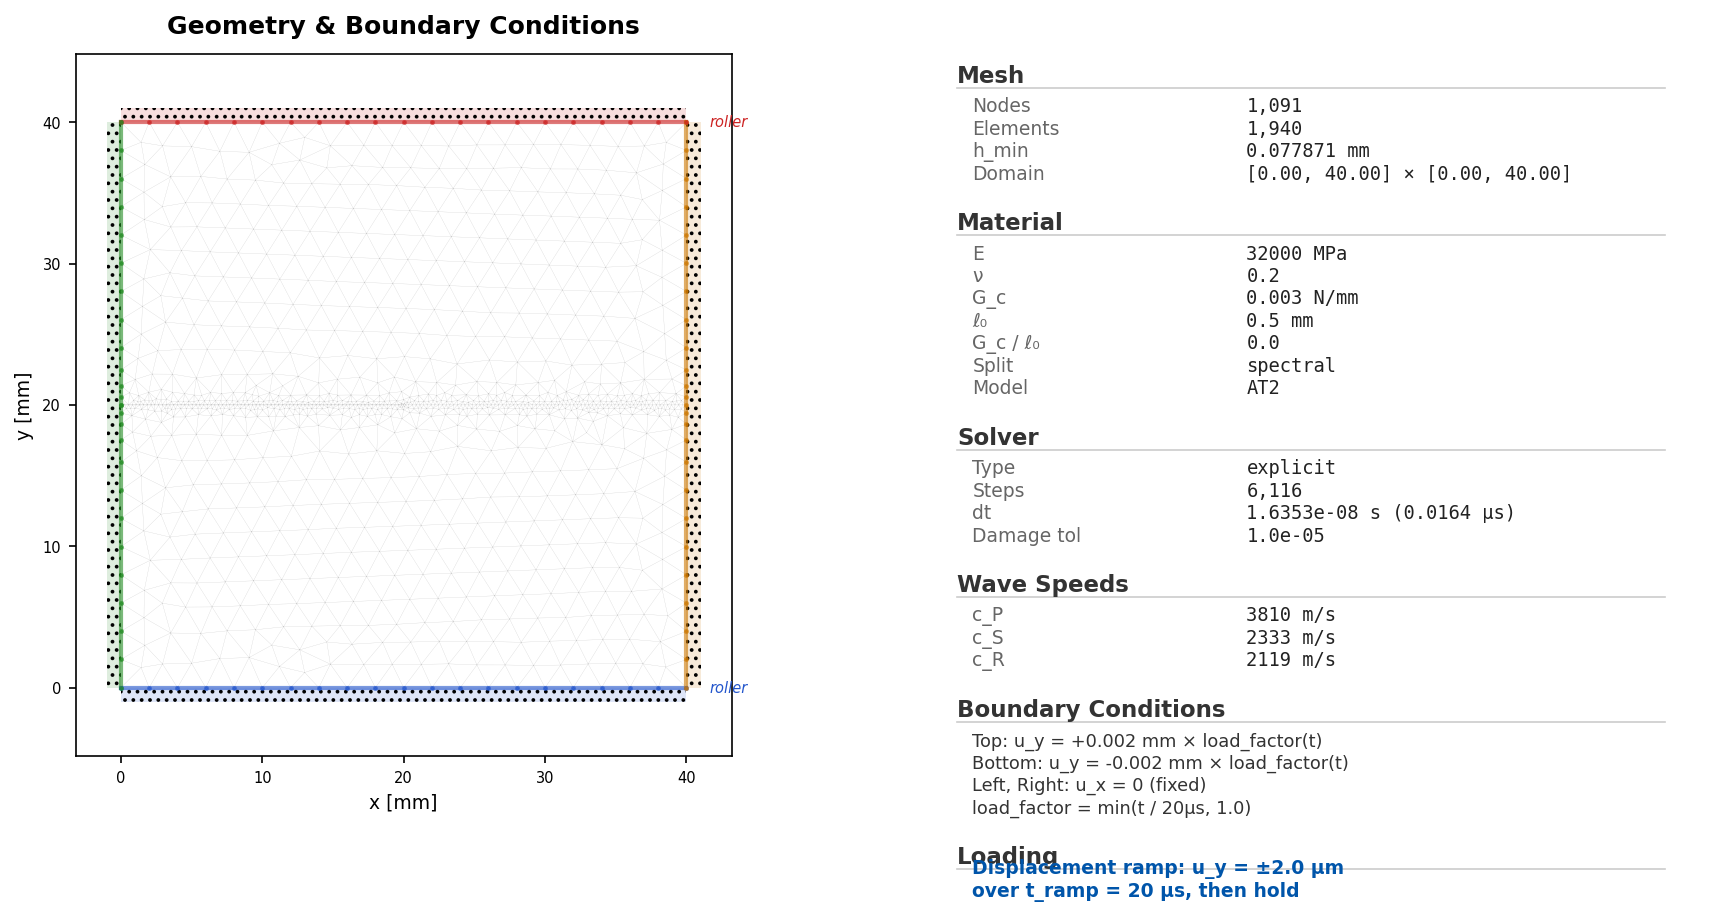
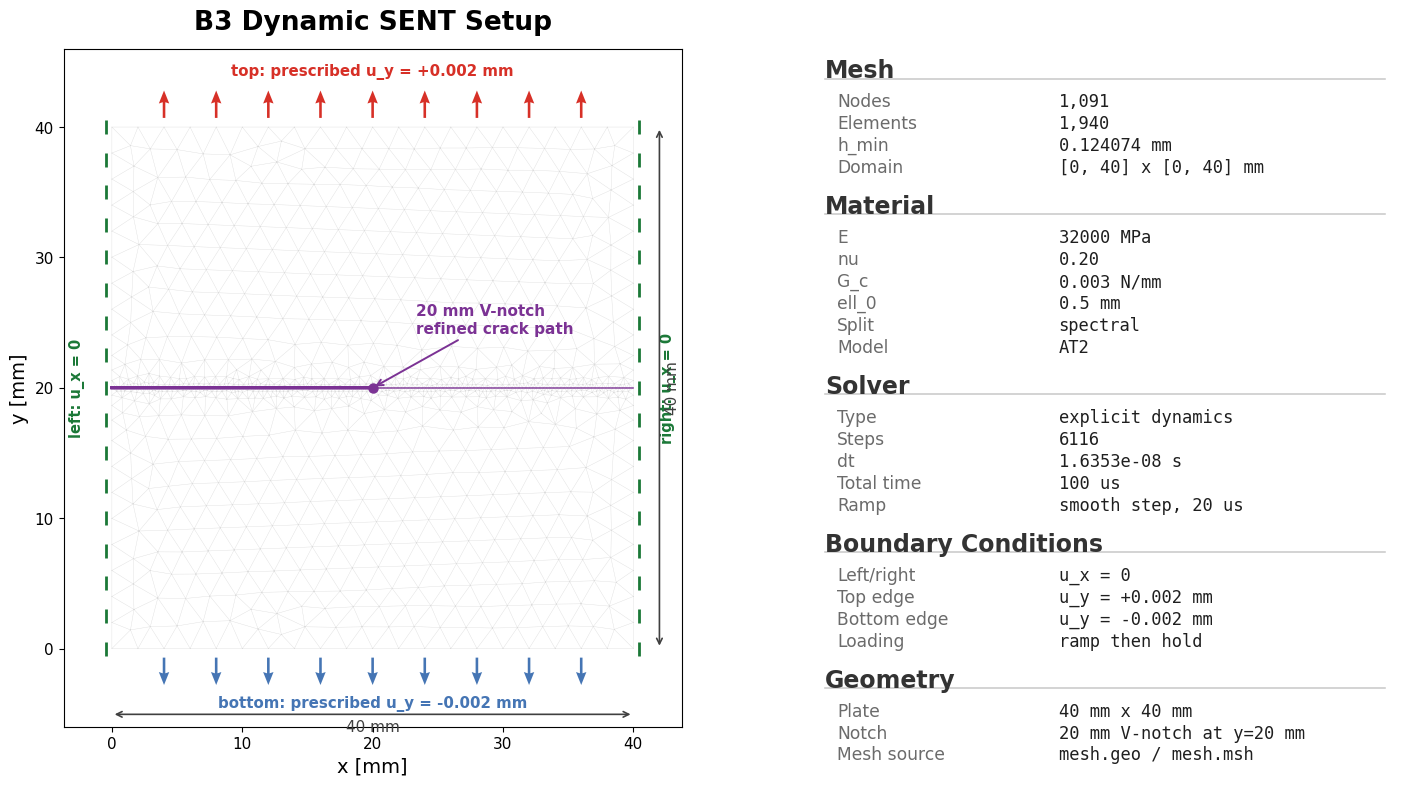
Align B2 and B3 dynamic example READMEs

diff --git a/examples/dynamic/B3_dynamic_sent/run_fluent.py b/examples/dynamic/B3_dynamic_sent/run_fluent.py
@@ -1,4 +1,4 @@
-"""Run the B3 dynamic SENT example without a YAML deck."""
+"""Run the B3 dynamic SENT example without a YAML configuration."""
 
 from __future__ import annotations
 
@@ -23,19 +23,20 @@ def build_problem(num_steps: int | None = None) -> phast.Problem:
     problem.config.geometry = GeometryConfig(
         units="mm",
         primitives={
-            "plate": {"type": "rectangle", "origin": [0, 0], "size": [100.0, 40.0]},
+            "plate": {"type": "rectangle", "origin": [0, 0], "size": [40.0, 40.0]},
             "notch": {
                 "type": "polygon",
-                "vertices": [[0.0, 20.01], [50.0, 20.0], [0.0, 19.99]],
+                "vertices": [[0.0, 20.001], [20.0, 20.0], [0.0, 19.999]],
             },
         },
         domain={"base": "plate", "subtract": ["notch"]},
         named_groups={
             "left": {"region": {"type": "rectangle", "origin": [-0.01, 0.0], "size": [0.02, 40.0]}},
-            "top": {"region": {"type": "rectangle", "origin": [0.0, 39.99], "size": [100.0, 0.02]}},
-            "bottom": {"region": {"type": "rectangle", "origin": [0.0, -0.01], "size": [100.0, 0.02]}},
+            "right": {"region": {"type": "rectangle", "origin": [39.99, 0.0], "size": [0.02, 40.0]}},
+            "top": {"region": {"type": "rectangle", "origin": [0.0, 39.99], "size": [40.0, 0.02]}},
+            "bottom": {"region": {"type": "rectangle", "origin": [0.0, -0.01], "size": [40.0, 0.02]}},
         },
-        mesh={"element_size": {"default": 4.0, "refined": [{"primitive": "notch", "size": 0.5, "margin": 2.5}]}},
+        mesh={"element_size": {"default": 2.0, "refined": [{"primitive": "notch", "size": 0.25, "margin": 1.5}]}},
     )
     problem.config.material = MaterialConfig(
         E=32000.0,
@@ -49,10 +50,17 @@ def build_problem(num_steps: int | None = None) -> phast.Problem:
     )
     problem.config.boundary_conditions = [
         BoundaryConditionEntry(nodes="left", type="fix", component=0),
-        BoundaryConditionEntry(nodes="top", type="traction", component=1, value=1.0, ramp_type="constant"),
-        BoundaryConditionEntry(nodes="bottom", type="traction", component=1, value=-1.0, ramp_type="constant"),
+        BoundaryConditionEntry(nodes="right", type="fix", component=0),
+        BoundaryConditionEntry(nodes="top", type="prescribe", component=1, value=0.002),
+        BoundaryConditionEntry(nodes="bottom", type="prescribe", component=1, value=-0.002),
     ]
-    problem.config.loading = LoadingConfig(protocol="simple", t_total=5.0e-05, ramp_type="constant", num_steps=0)
+    problem.config.loading = LoadingConfig(
+        protocol="simple",
+        t_total=1.0e-04,
+        ramp_type="smooth_step",
+        t_ramp=2.0e-05,
+        num_steps=0,
+    )
     problem.config.solver = SolverSettings(solver_type="explicit", dt_safety=0.8)
     problem.config.output = OutputConfig(
         trajectory=True,

diff --git a/examples/dynamic/B3_dynamic_sent/README.md b/examples/dynamic/B3_dynamic_sent/README.md
@@ -1,20 +1,20 @@
 # B3 Dynamic SENT
 
-Dynamic single-edge-notched tension lightweight example based on Borden et al. (2012). The folder is useful as a lightweight explicit-dynamics demonstration and keeps the current curated SENT CSV and PNG outputs beside the YAML configuration.
+Dynamic single-edge-notched tension lightweight example based on Borden et al. (2012). The folder provides a compact explicit-dynamics demonstration and keeps the curated SENT CSV, PNG, and animation outputs beside the YAML configuration.
 
-All public-facing artifacts for this example stay directly in this folder. Full run folders, heavy trajectory stores, external COMSOL model files, and diagnostic diagnostics are intentionally excluded.
+All public-facing artifacts for this example stay directly in this folder. Full run folders, heavy trajectory stores, external COMSOL model files, and diagnostic outputs are intentionally excluded.
 
 ## 1. Problem Description
 
-- 100 mm x 40 mm SENT plate with a 50 mm wedge notch generated through the geometry DSL.
+- 40 mm x 40 mm SENT plate with a 20 mm wedge notch generated through the geometry DSL and mirrored by `mesh.geo`.
 - Material model: soda-lime glass, AT2 phase field, spectral split, explicit dynamics.
-- Loading: constant opposite top/bottom tractions with the left edge constrained in x.
+- Loading: smooth-step prescribed vertical displacement on the top and bottom edges, ramped to `u_y = +/-0.002 mm` over 20 us and then held; left and right edges are constrained in `x`.
 - Claim boundary: qualitative lightweight dynamic fracture evidence, not convergence-quality benchmark validation.
 
 The YAML configuration is the canonical public input for this example. Expected runtime depends strongly on mesh size, device, and output cadence; the checked-in outputs are curated evidence and should not be regenerated during lightweight contract checks.
 
 
-## Run The Canonical YAML configuration
+## Run The Canonical YAML Configuration
 
 From the repository root:
 
@@ -40,6 +40,16 @@ python -m phast run examples/dynamic/B3_dynamic_sent/config.yaml \
 ```
 
 Do not treat the short check as benchmark evidence; it is only a quick check for the declarative configuration and runner plumbing.
+
+To regenerate a fresh Gmsh mesh from the public geometry recipe:
+
+```bash
+gmsh examples/dynamic/B3_dynamic_sent/mesh.geo \
+  -2 -format msh2 \
+  -o examples/dynamic/B3_dynamic_sent/mesh.msh
+```
+
+The checked-in `mesh.msh` is the mesh used by the curated public evidence. Regenerating from `mesh.geo` is useful for reruns, but Gmsh version and import/export choices can produce small node/element-count differences.
 
 ## How The YAML Is Used
 
@@ -100,11 +110,12 @@ The Python runner builds the same mesh, material, boundary-condition, solver, an
 
 | Initial conditions | Damage evolution |
 |---|---|
+| <img src="initial_conditions.png" alt="B3 dynamic SENT initial conditions" width="360"> | <img src="damage_evolution.gif" alt="B3 dynamic SENT damage evolution" width="360"> |
 
 | Quantity | Reference evidence | Status |
 | --- | --- | --- |
 | Package status | Dynamic lightweight example | PUBLIC EXAMPLE |
-| Curated evidence | Setup, multipanel damage, stress/displacement, energy, velocity, history, and crack-tip files | PRESENT |
-| Known limitation | Current config has h/l0 warning; add finer reference evidence before claiming benchmark convergence | DOCUMENTED |
+| Curated evidence | Setup image, final damage image, damage animation, history, energy, and crack-tip files | PRESENT |
+| Known limitation | Lightweight 1,091-node public evidence; use finer reruns before making convergence-quality claims | DOCUMENTED |
 
 The public result bundle is lightweight by design. It is suitable for documentation, review, and drift checks, while large full trajectories and source datasets remain outside the public example folder.

diff --git a/examples/dynamic/B2_kalthoff_winkler/README.md b/examples/dynamic/B2_kalthoff_winkler/README.md
@@ -1,8 +1,8 @@
 # B2 Kalthoff-Winkler
 
-Dynamic Kalthoff-Winkler impact example based on Borden et al. (2012). The public folder contains the runnable YAML configuration and lightweight mesh-3 evidence from the canonical half-plate reference environment run `kalthoff_halfplate_19148/mesh3_h0.25`.
+Dynamic Kalthoff-Winkler impact example based on Borden et al. (2012). The public folder contains the runnable YAML configuration and lightweight mesh-3 evidence from the canonical half-plate reference run `kalthoff_halfplate_19148/mesh3_h0.25`.
 
-All public-facing artifacts for this example stay directly in this folder. Full run folders, heavy trajectory stores, external COMSOL model files, and diagnostic diagnostics are intentionally excluded.
+All public-facing artifacts for this example stay directly in this folder. Full run folders, heavy trajectory stores, external COMSOL model files, and diagnostic outputs are intentionally excluded.
 
 ## 1. Problem Description
 
@@ -14,7 +14,7 @@ All public-facing artifacts for this example stay directly in this folder. Full 
 The YAML configuration is the canonical public input for this example. The reference evidence was produced in the reference environment with a single A100 80 GB GPU; the mesh-3 run metadata records 35,487 nodes, 70,447 elements, 11,775 explicit steps, and 79.22 s wall time. Do not regenerate this full benchmark during lightweight contract checks.
 
 
-## Run The Canonical YAML configuration
+## Run The Canonical YAML Configuration
 
 From the repository root:
 
@@ -112,8 +112,8 @@ The Python runner builds the same mesh, material, boundary-condition, solver, an
 | Quantity | Reference evidence | Status |
 | --- | --- | --- |
 | Recorded run | reference A100 mesh-3 evidence; 35,487 nodes, 70,447 elements, 11,775 explicit steps | PRESENT |
-| Public field animation | `damage_evolution.gif` and `damage_evolution.mp4` generated from mesh-3 `external trajectory store` in the reference environment | PRESENT |
-| Excluded large files | `external trajectory store`, full run logs, and temporary result directories stay out of the public bundle | ENFORCED |
+| Public field animation | `damage_evolution.gif` and `damage_evolution.mp4` generated from the mesh-3 trajectory store in the reference environment | PRESENT |
+| Excluded large files | Full trajectory stores, run logs, and temporary result directories stay out of the public bundle | ENFORCED |
 
 To regenerate the reference visuals without transferring a large trajectory
 store, post-process in the reference environment and copy only the lightweight
